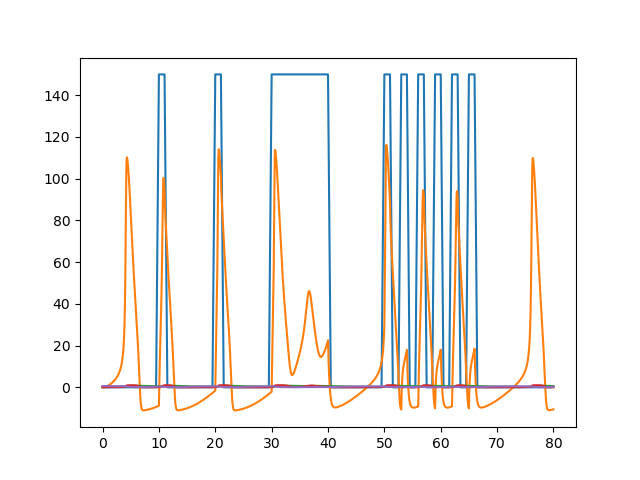
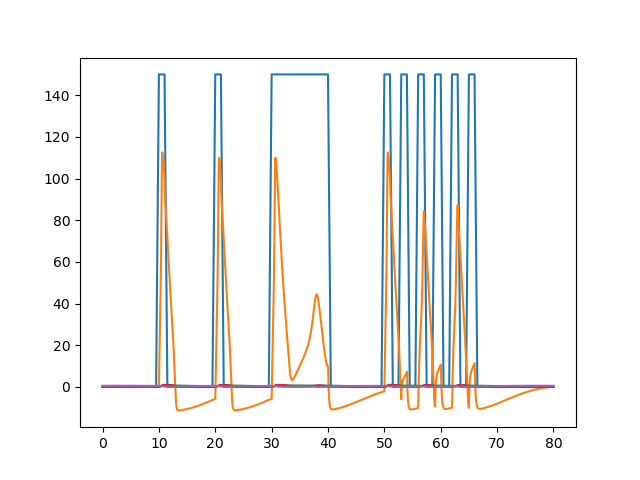
fix plot assignment 52

diff --git a/src/assignment_52.py b/src/assignment_52.py
@@ -3,17 +3,77 @@ import math
 import matplotlib.pyplot as plt
 
 
+def a_n(t, x):
+    return 0.01*(10-x[0])/(math.exp(0.1*(10-x[0]))-1)
+
+
+def b_n(t, x):
+    return 0.125*math.exp(-x[0]/80)
+
+
+def a_m(t, x):
+    return 0.1*(25-x[0])/(math.exp(0.1*(25-x[0]))-1)
+
+
+def b_m(t, x):
+    return 4*math.exp(-x[0]/18)
+
+
+def a_h(t, x):
+    return 0.07 * math.exp(-x[0]/20)
+
+
+def b_h(t, x):
+    return 1/(math.exp(0.1*(30-x[0]))+1)
+
+
 def dn(t, x):
-    return (0.01*(10-x[0])*(1-x[1])) / \
-        (math.exp(10-x[0])-1) - x[1] * 0.125 * math.exp(-x[0]/80)
+    return a_n(t, x)*(1 - x[1]) - b_n(t, x)*x[1]
 
 
 def dm(t, x):
-    return ((0.1*(25-x[0])*(1-x[2]))/(math.exp(0.1*(25-x[0]))-1) - 4*math.exp(-x[0]/18)*x[2])
+    return a_m(t, x)*(1 - x[2]) - b_m(t, x)*x[2]
 
 
 def dh(t, x):
-    return (0.07*math.exp(-x[0]/20)*(1-x[3])) - x[3]/(math.exp(0.1*(30-x[0]))+1)
+    return a_h(t, x)*(1 - x[3]) - b_h(t, x)*x[3]
+
+
+C = 1
+Vna = 115
+Vk = -12
+VL = 10.6
+_gna = 120
+_gk = 36
+_gl = 0.3
+
+
+def INa(t, x):
+    return gna(t, x)*(x[0]-Vna)
+
+
+def gna(t, x):
+    return _gna * x[2]**3 * x[3]
+
+
+def Ik(t, x):
+    return gk(t, x)*(x[0]-Vk)
+
+
+def gk(t, x):
+    return _gk * x[1]**4
+
+
+def IL(t, x):
+    return gl(t, x)*(x[0]-VL)
+
+
+def gl(t, x):
+    return _gl
+
+
+def dV(t, x):
+    return 1/C * (s_t(t) - INa(t, x) - Ik(t, x) - IL(t, x))
 
 
 def s_t(t):
@@ -24,10 +84,6 @@ def s_t(t):
             65 <= t <= 66:
         return 150
     return 0
-
-
-def dV(t, x):
-    return s_t(t) - 120*(x[2]**3)*x[3]*(x[0]-115)-36*(x[1]**4)*(x[0]+12)-0.3*(x[0]-10.6)
 
 
 derivatives = [dV, dn, dm, dh]
@@ -46,10 +102,9 @@ m_0 = 2.5/(2.5+4*(math.e**2.5 - 1))
 V_0 = 0
 
 starting_point = (0, (V_0, n_0, m_0, h_0))
-print(starting_point)
 
 estimator = EulerEstimator(derivatives, starting_point)
 plt.plot([n/2 for n in range(160)], [s_t(n/2) for n in range(160)], zorder=1)
 
-estimator.plot([0, 80], step_size=0.01,
+estimator.plot([0, 80], step_size=0.02,
                filename="epic_assignment_52_plot.png")
